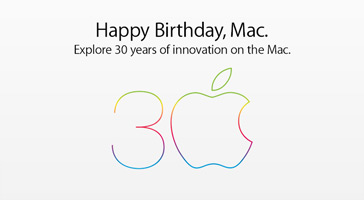
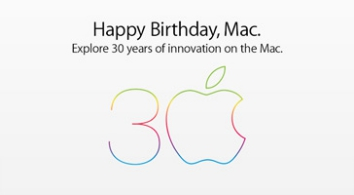
Resized Bottom Images

diff --git a/main.css b/main.css
@@ -76,7 +76,7 @@ input{
   position: static; right: 172px;top: 30px;
   height: 18px; width: 100px;
   background-color: inherit;
-  border-radius: 8px;
+  border-radius: 10px;
   border-color: #222; color: #fff;
 }
 
@@ -115,7 +115,7 @@ img{
   vertical-align: middle;
   float: left;
 	height: 200px;
-  width: 24.9%;
+  width: 336px;
   margin-right: 1px;
 
 }
@@ -139,7 +139,7 @@ img{
 footer {
     min-width: 980px;
     width: 100%;
-    
+
     height: 100px;
     color: #6e6e6e;
     text-align: center;
